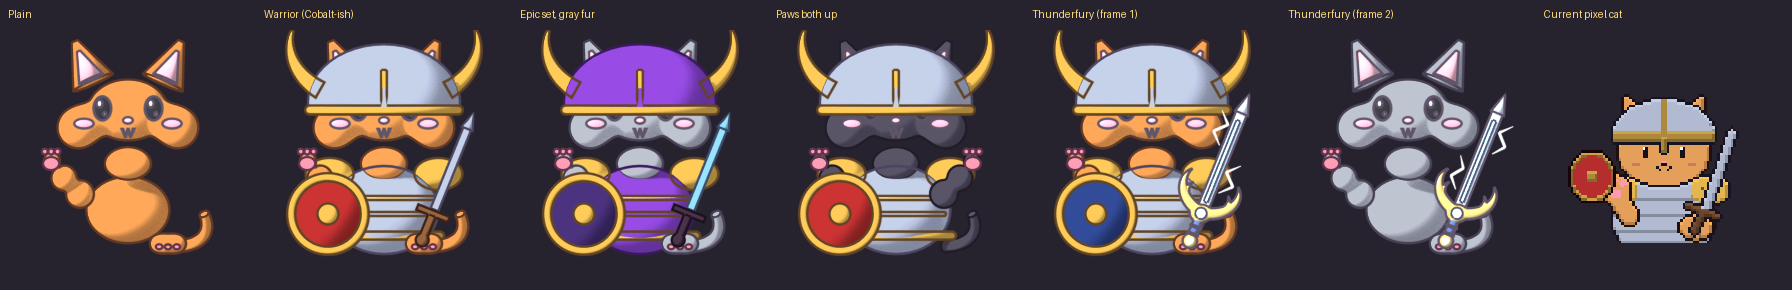
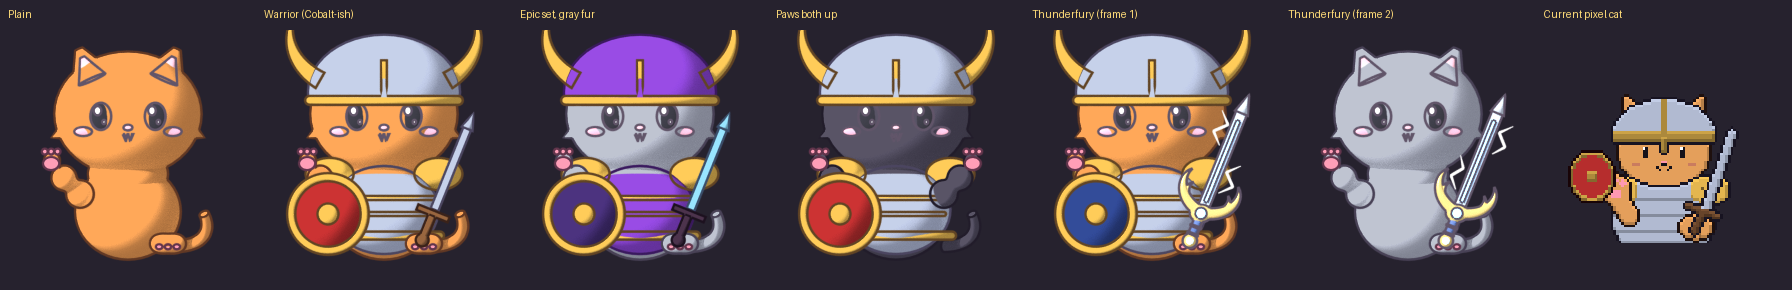
Blender proof of concept: rebuild cat as round head and sitting body
Claude-Session: https://claude.ai/code/session_01U7bL86WiBjVd5hPPXRdknB

diff --git a/tools/render3d.py b/tools/render3d.py
@@ -150,26 +150,25 @@ PAD = mat("pad", (0.95, 0.95, 0.95), 0.7)
 
 # ------------------------------------------------------------------ cat (soft chibi shape from metaballs)
 HEAD_Z = 0.85
-blob("fur", FUR, "Body", [
-    ((0, 0.1, -0.4), 1.0, (0.9, 0.66, 0.72)),          # body
-    ((0, -0.05, HEAD_Z), 1.0, (0.86, 0.68, 0.66)),      # head
-    ((0.62, -0.2, HEAD_Z - 0.22), 0.45, None),          # cheek fluff
-    ((-0.62, -0.2, HEAD_Z - 0.22), 0.45, None),
-    ((0, -0.42, 0.18), 0.5, (1.0, 0.6, 0.7)),           # chest fluff
-])
+# one round head and a pear-shaped sitting body, joined by a soft neck (no separate cheek blobs)
+head = sphere("fur", FUR, (0, -0.05, HEAD_Z - 0.05), (0.92, 0.78, 0.78))
+body = sphere("fur", FUR, (0, 0.1, -0.42), (0.66, 0.56, 0.6))
+sphere("fur", FUR, (0, 0.05, 0.05), (0.5, 0.45, 0.35))                       # neck/chest join
+for sx in (-1, 1):                                                           # tiny cheek tufts
+    cone("fur", FUR, (sx * 0.86, -0.15, HEAD_Z - 0.3), 0.12, 0.0, 0.22, (0, math.radians(sx * 115), 0))
 tube("fur", FUR, [(0.6, 0.4, -0.85), (0.95, 0.2, -0.85), (1.05, -0.15, -0.65), (0.95, -0.3, -0.45)], 0.075,
      taper=[1.0, 1.0, 0.95, 0.8])                        # tail curling round the side
 for sx in (-1, 1):
-    cone("fur", FUR, (sx * 0.55, 0.0, HEAD_Z + 0.6), 0.27, 0.04, 0.56, (math.radians(-6), math.radians(sx * 24), 0))
-    cone("face", PINK, (sx * 0.54, -0.14, HEAD_Z + 0.56), 0.16, 0.02, 0.38, (math.radians(-6), math.radians(sx * 24), 0))
-    sphere("face", EYE, (sx * 0.32, -0.66, HEAD_Z + 0.02), (0.11, 0.05, 0.15))           # big glossy eyes
-    sphere("face", WHITE, (sx * 0.32 - 0.035, -0.71, HEAD_Z + 0.08), (0.035, 0.02, 0.045))
-    sphere("face", WHITE, (sx * 0.32 + 0.03, -0.71, HEAD_Z - 0.05), (0.018, 0.01, 0.022))
-    sphere("face", BLUSH, (sx * 0.55, -0.56, HEAD_Z - 0.17), (0.12, 0.03, 0.06))        # blush
-sphere("face", PINK, (0, -0.74, HEAD_Z - 0.13), (0.06, 0.03, 0.04))                     # nose
-bpy.ops.object.text_add(location=(0, -0.76, HEAD_Z - 0.27), rotation=(math.radians(90), 0, 0))
+    cone("fur", FUR, (sx * 0.52, 0.0, HEAD_Z + 0.55), 0.3, 0.05, 0.46, (math.radians(-6), math.radians(sx * 24), 0))
+    cone("face", PINK, (sx * 0.51, -0.16, HEAD_Z + 0.52), 0.18, 0.03, 0.3, (math.radians(-6), math.radians(sx * 24), 0))
+    sphere("face", EYE, (sx * 0.34, -0.755, HEAD_Z - 0.08), (0.13, 0.05, 0.17))           # big glossy eyes
+    sphere("face", WHITE, (sx * 0.34 - 0.04, -0.81, HEAD_Z - 0.01), (0.045, 0.02, 0.055))
+    sphere("face", WHITE, (sx * 0.34 + 0.04, -0.81, HEAD_Z - 0.15), (0.02, 0.01, 0.025))
+    sphere("face", BLUSH, (sx * 0.56, -0.63, HEAD_Z - 0.27), (0.11, 0.03, 0.055))        # blush
+sphere("face", PINK, (0, -0.835, HEAD_Z - 0.22), (0.055, 0.03, 0.035))                     # nose
+bpy.ops.object.text_add(location=(0, -0.805, HEAD_Z - 0.33), rotation=(math.radians(90), 0, 0))
 mouth = bpy.context.active_object; mouth.data.body = "w"; mouth.data.align_x = "CENTER"; mouth.data.align_y = "CENTER"
-mouth.data.size = 0.22; mouth.data.extrude = 0.01
+mouth.data.size = 0.18; mouth.data.extrude = 0.01
 bpy.ops.object.convert(target="MESH"); place(bpy.context.active_object, "face", EYE)
 
 # paws: down = resting on the ground in front with toes, up = a soft raised arm
@@ -192,16 +191,16 @@ for side, sx in (("R", 1), ("L", -1)):
 
 # ------------------------------------------------------------------ gear (grey, tinted in game)
 # great helm: dome (a) with brim, nose guard and horns (b)
-helm = sphere("helm_a", METAL_A, (0, -0.05, HEAD_Z + 0.1), (0.95, 0.8, 0.72))
+helm = sphere("helm_a", METAL_A, (0, -0.05, HEAD_Z + 0.22), (0.95, 0.8, 0.72))
 bpy.context.view_layer.objects.active = helm
 bpy.ops.object.modifier_add(type="BOOLEAN")
-cutter = cube("cut", METAL_A, (0, 0, HEAD_Z - 0.55), (3, 3, 1.0)); cutter.hide_render = True
+cutter = cube("cut", METAL_A, (0, 0, HEAD_Z - 0.43), (3, 3, 1.0)); cutter.hide_render = True
 helm.modifiers[-1].object = cutter; helm.modifiers[-1].operation = "DIFFERENCE"
-torus("helm_b", METAL_B, (0, -0.05, HEAD_Z + 0.0), 0.93, 0.055, (0, 0, 0), (1, 0.82, 1))
-cube("helm_b", METAL_B, (0, -0.8, HEAD_Z + 0.25), (0.07, 0.05, 0.5))
+torus("helm_b", METAL_B, (0, -0.05, HEAD_Z + 0.12), 0.93, 0.055, (0, 0, 0), (1, 0.82, 1))
+cube("helm_b", METAL_B, (0, -0.8, HEAD_Z + 0.37), (0.07, 0.05, 0.5))
 for sx in (-1, 1):
-    tube("helm_b", METAL_B, [(sx * 0.8, -0.05, HEAD_Z + 0.25), (sx * 1.15, -0.05, HEAD_Z + 0.45),
-                             (sx * 1.25, -0.05, HEAD_Z + 0.8), (sx * 1.12, -0.05, HEAD_Z + 1.05)], 0.11,
+    tube("helm_b", METAL_B, [(sx * 0.8, -0.05, HEAD_Z + 0.37), (sx * 1.15, -0.05, HEAD_Z + 0.57),
+                             (sx * 1.25, -0.05, HEAD_Z + 0.92), (sx * 1.12, -0.05, HEAD_Z + 1.17)], 0.11,
          taper=[1.0, 0.8, 0.45, 0.05])
 
 # plate chest: a breastplate on the front of the body (a), pauldrons and belt (b)
